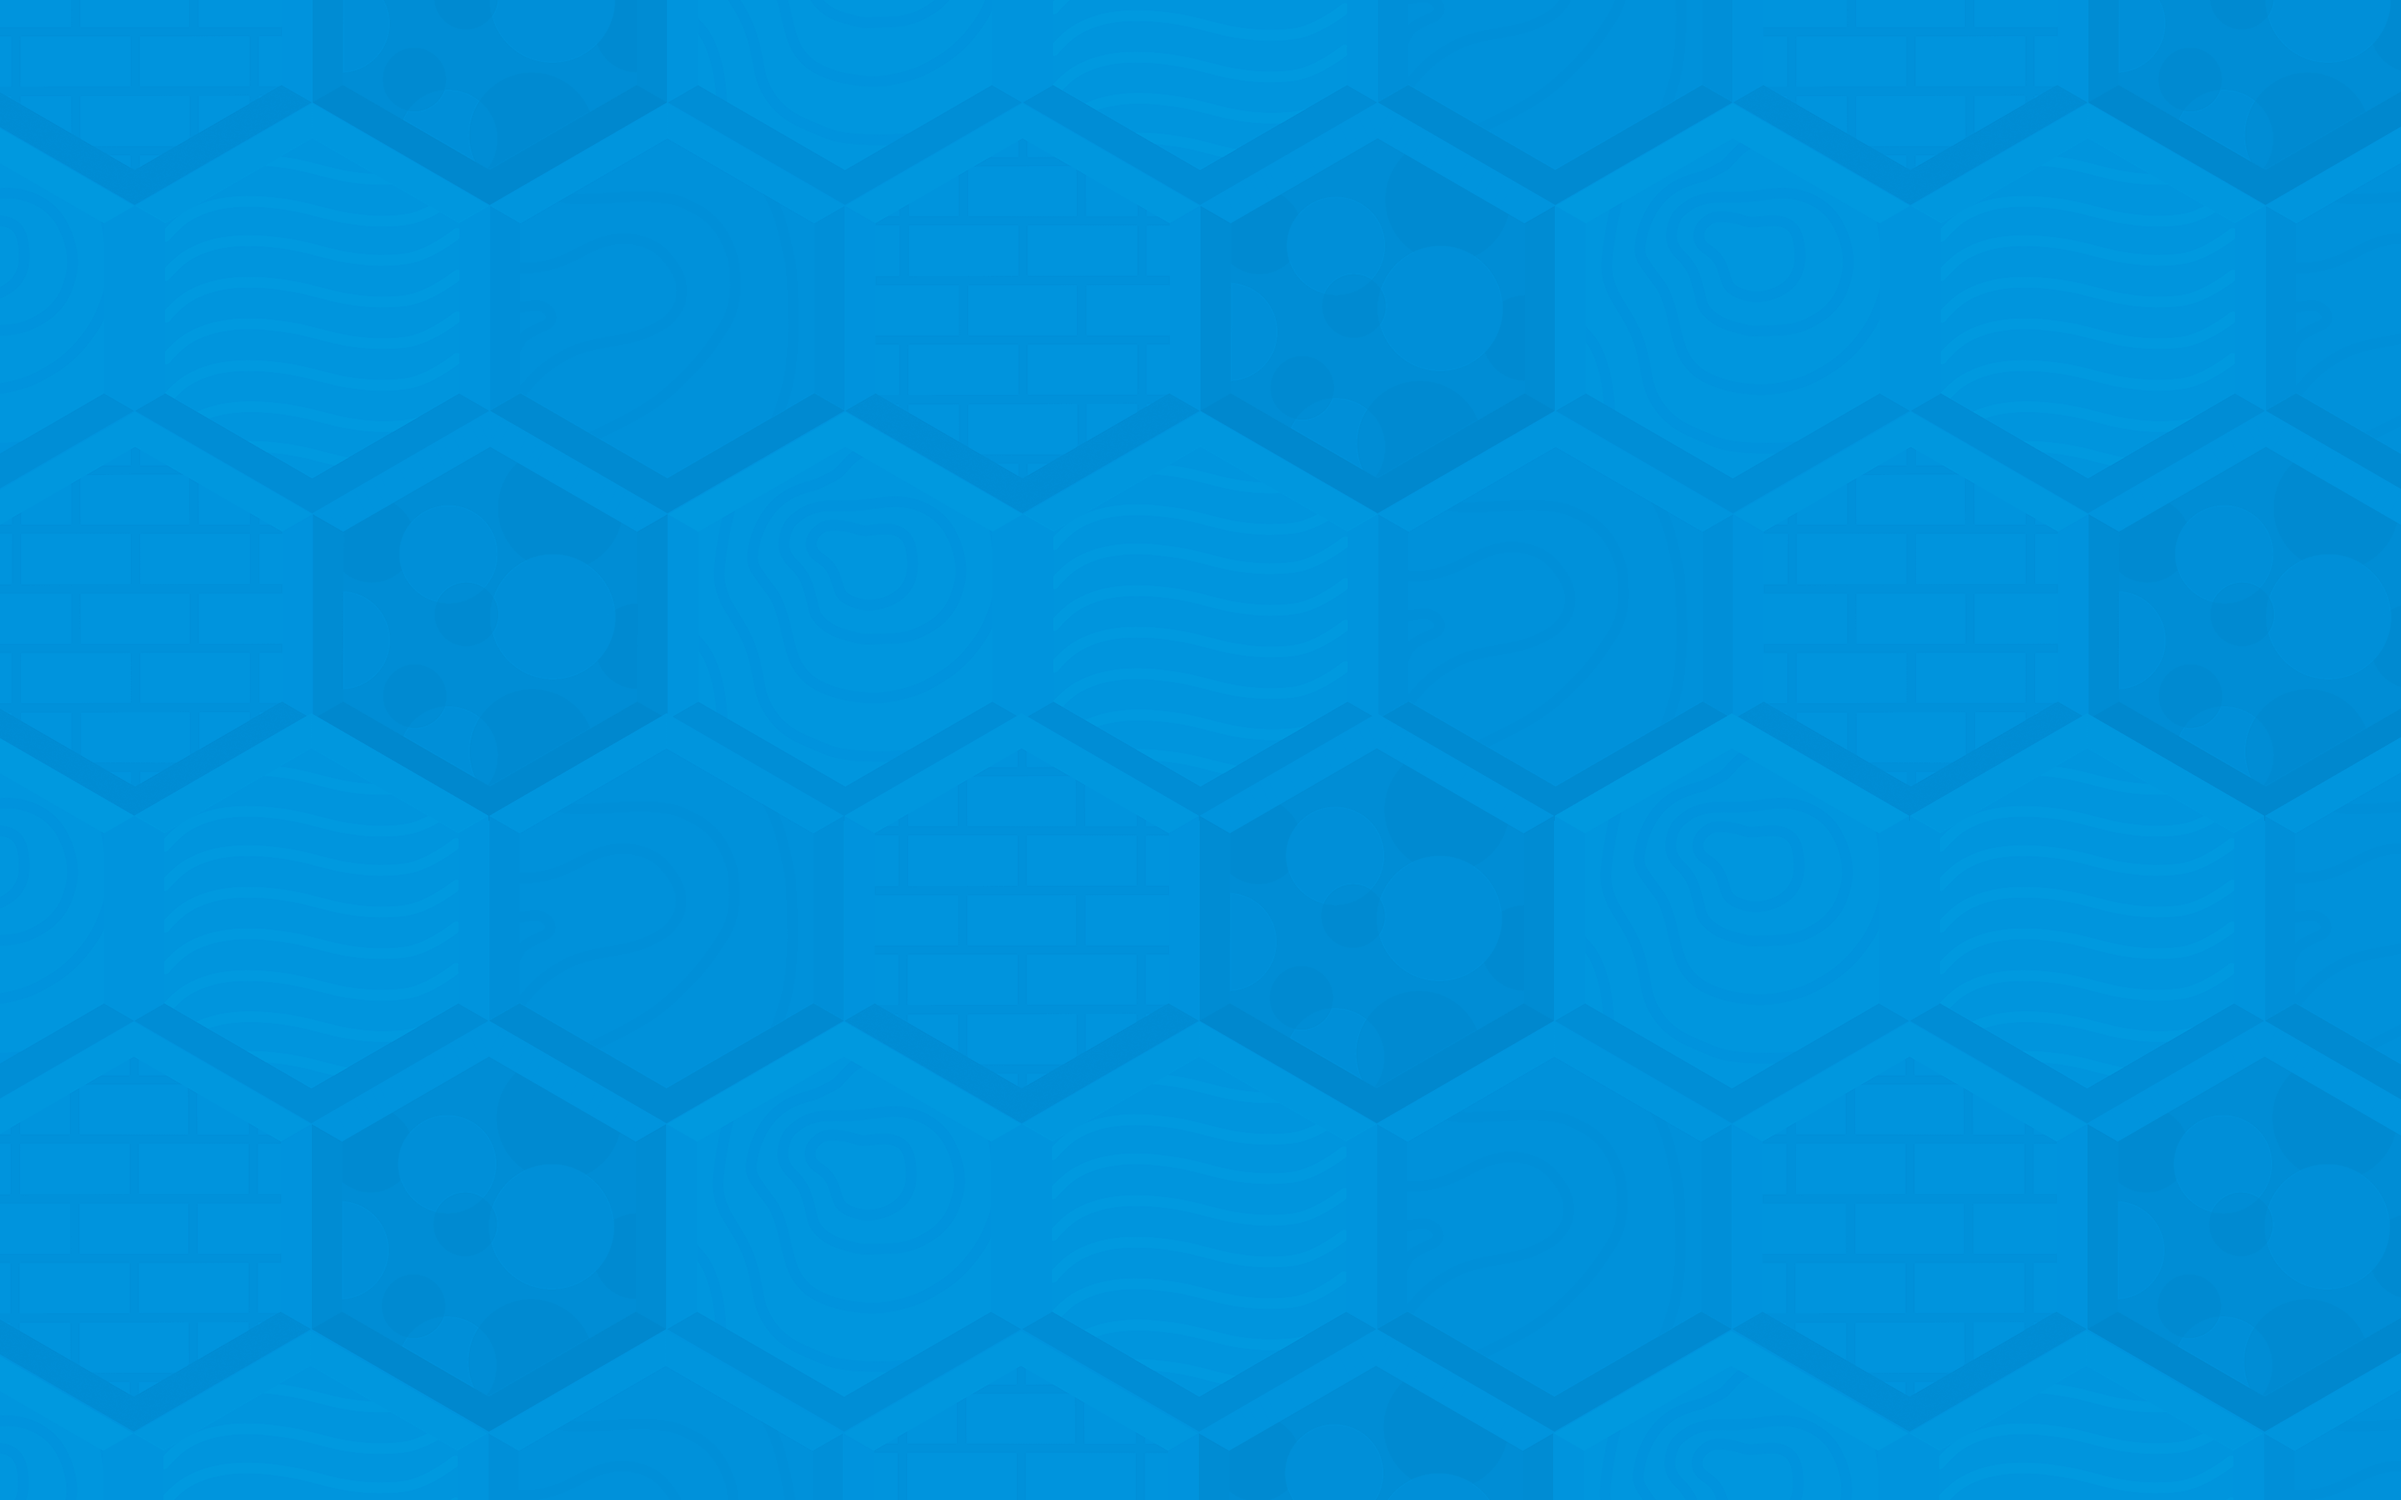
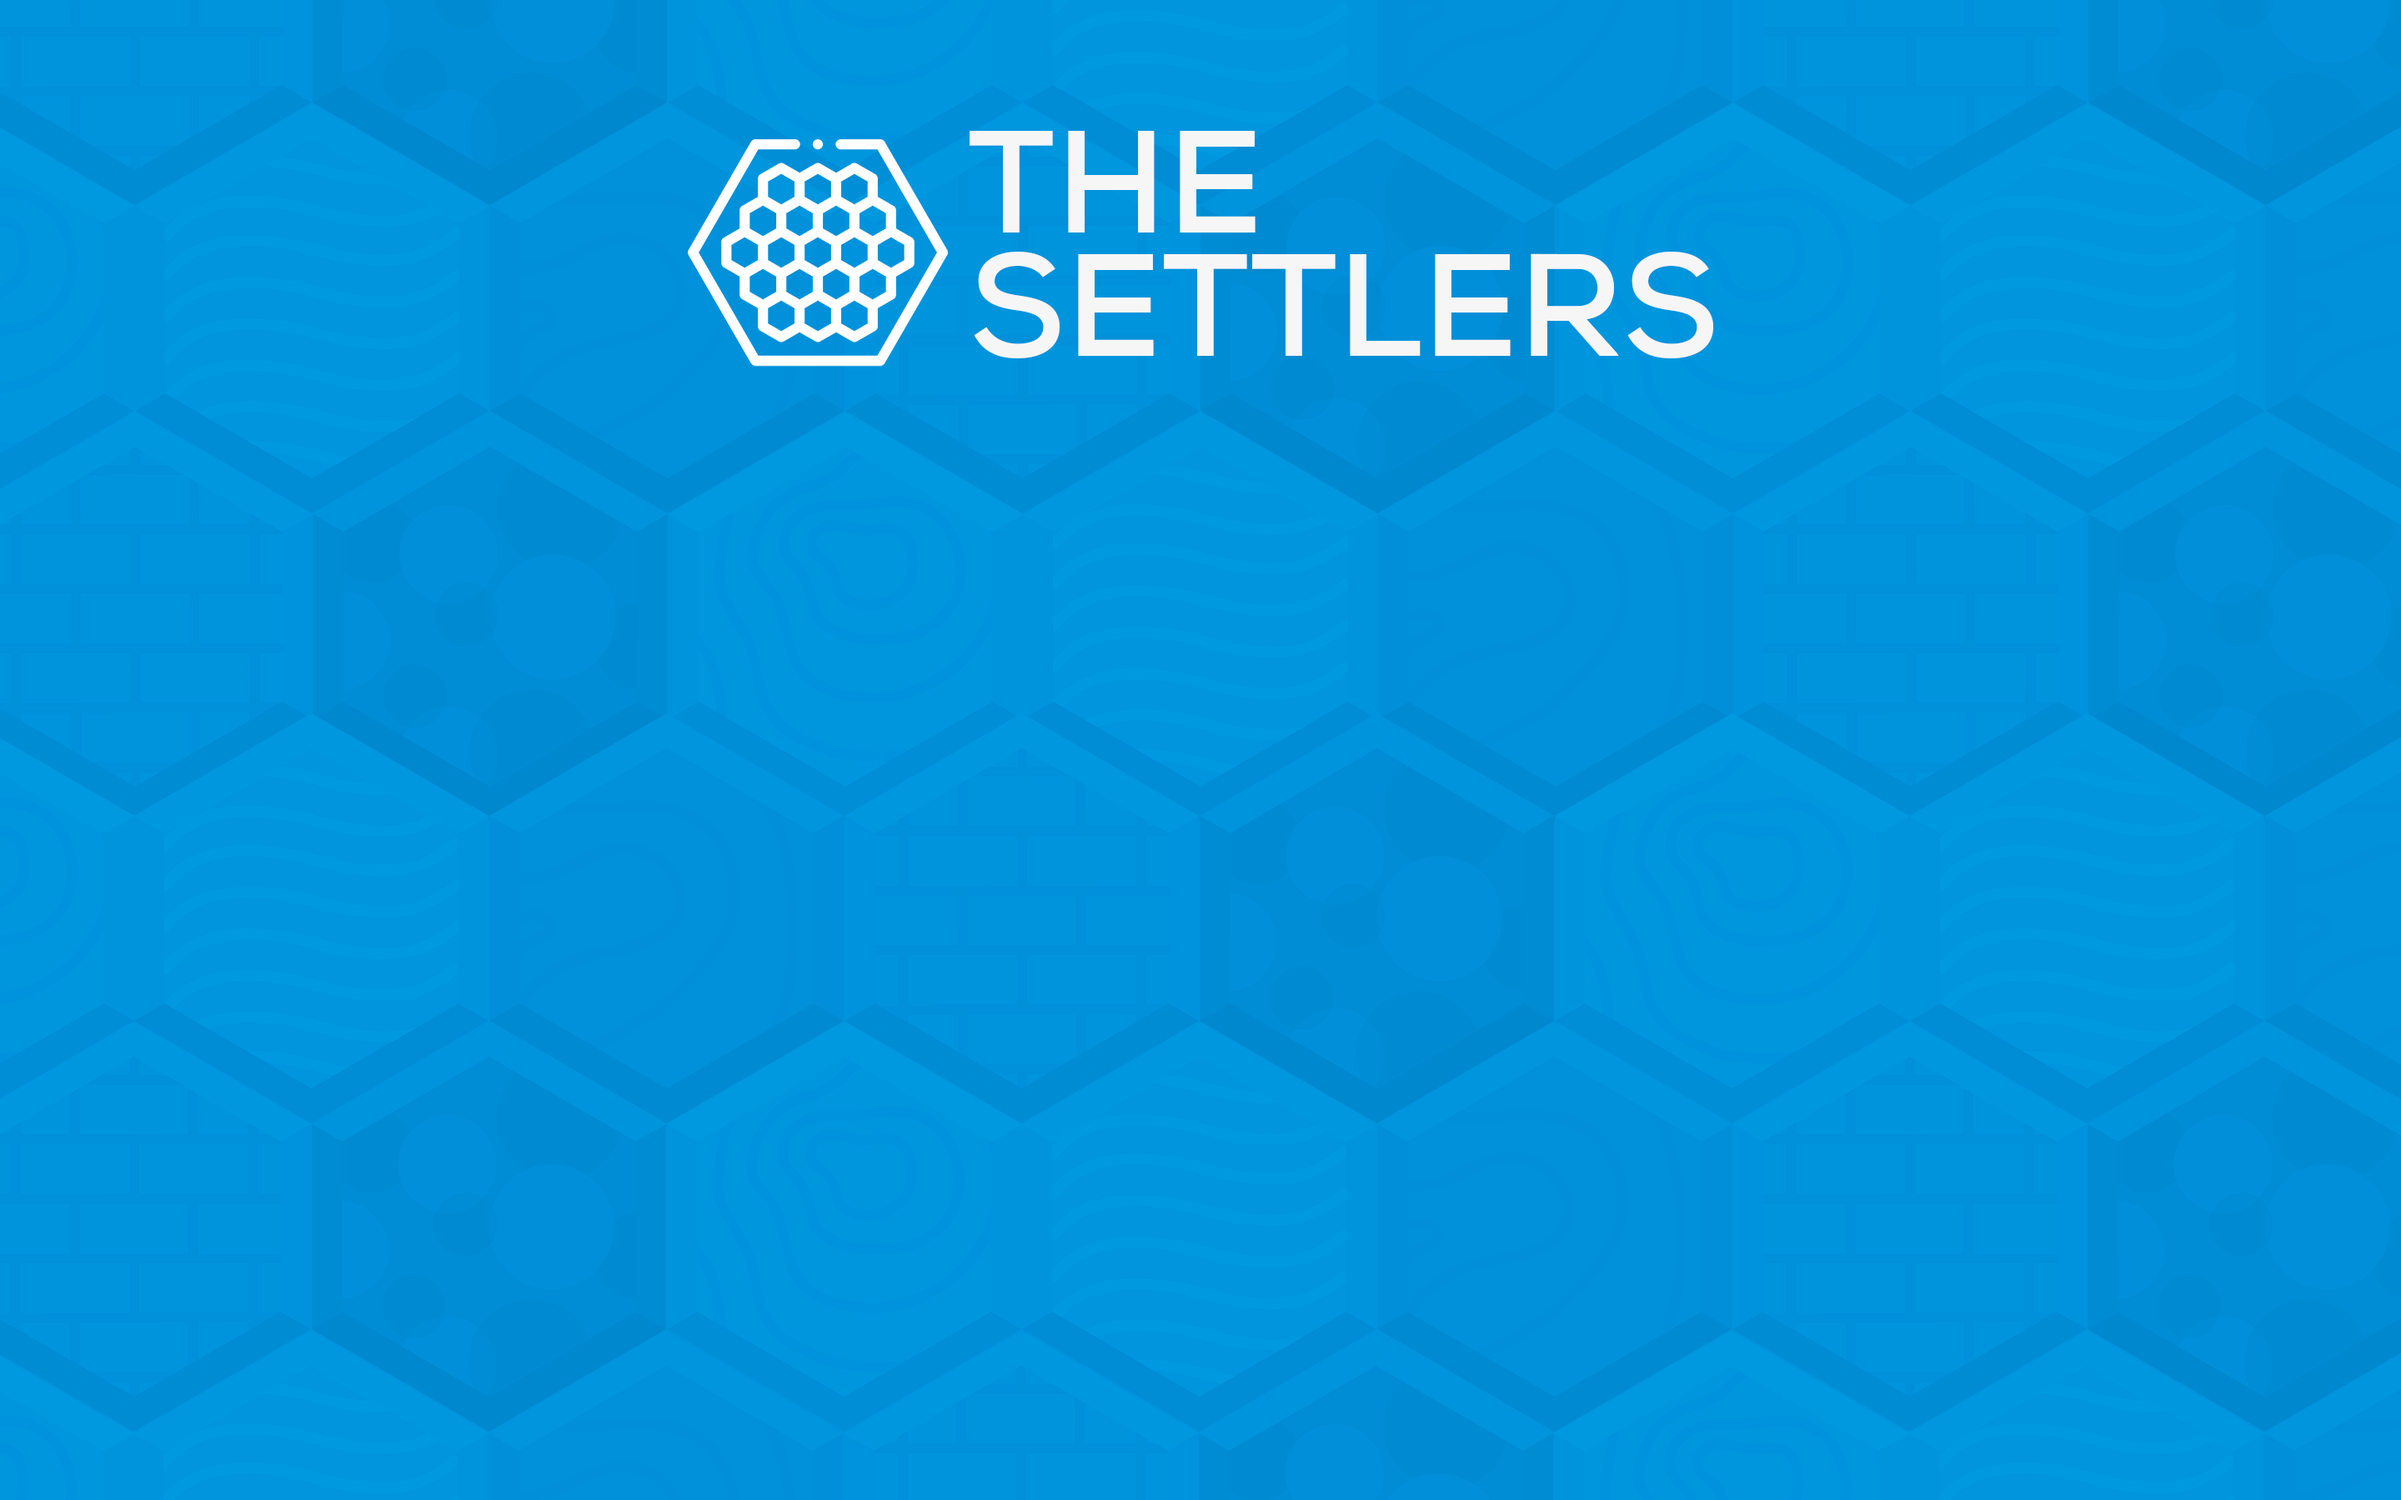
Added a menu
- Added a basic menu, with minimal functionality
- Working exit button with confirmation pop-up in menu

Changed region(s): [[0.2812, 0.0622, 0.7188, 0.2489]]

diff --git a/The Settlers/src/main/resources/com/example/thesettlers/sample.css b/The Settlers/src/main/resources/com/example/thesettlers/sample.css
@@ -1,4 +1,11 @@
 #GUI{
+    -fx-background-image: url("gamebg.png");
+    -fx-background-repeat: no-repeat;
+    -fx-background-size: 1440 900;
+    -fx-background-position: 0 0;
+}
+
+#MENU{
     -fx-background-image: url("menubg.png");
     -fx-background-repeat: no-repeat;
     -fx-background-size: 1440 900;

diff --git a/The Settlers/target/classes/com/example/thesettlers/sample.css b/The Settlers/target/classes/com/example/thesettlers/sample.css
@@ -1,4 +1,11 @@
 #GUI{
+    -fx-background-image: url("gamebg.png");
+    -fx-background-repeat: no-repeat;
+    -fx-background-size: 1440 900;
+    -fx-background-position: 0 0;
+}
+
+#MENU{
     -fx-background-image: url("menubg.png");
     -fx-background-repeat: no-repeat;
     -fx-background-size: 1440 900;

diff --git a/The Settlers/src/main/java/com/example/thesettlers/Menu.java b/The Settlers/src/main/java/com/example/thesettlers/Menu.java
@@ -1,0 +1,62 @@
+package com.example.thesettlers;
+
+import javafx.application.Platform;
+import javafx.scene.Scene;
+import javafx.scene.image.Image;
+import javafx.scene.layout.Pane;
+import javafx.scene.paint.ImagePattern;
+import javafx.scene.shape.Rectangle;
+
+public class Menu {
+    private Pane menu = new Pane();
+    private Scene scene = new Scene(menu);
+    public Menu(){
+        menu.setId("MENU");
+        Rectangle startGame = new Rectangle(362.5, 280,715,100);
+        startGame.setFill(new ImagePattern(new Image(this.getClass().getResource("startgame.png").toExternalForm())));
+
+        Rectangle howToPlay = new Rectangle(362.5, 280+100+40,715,100);
+        howToPlay.setFill(new ImagePattern(new Image(this.getClass().getResource("howtoplay.png").toExternalForm())));
+
+        Rectangle options = new Rectangle(362.5, 280+200+80,715,100);
+        options.setFill(new ImagePattern(new Image(this.getClass().getResource("options.png").toExternalForm())));
+
+        Rectangle exit = new Rectangle(362.5, 280+300+120,715,100);
+
+        Rectangle exitform = new Rectangle(0,0,1440,900);
+        exitform.setFill(new ImagePattern(new Image(this.getClass().getResource("exitform.png").toExternalForm())));
+        exitform.setVisible(false);
+
+        Rectangle yes = new Rectangle(521.5,485,153.5,50.5);
+        yes.setFill(new ImagePattern(new Image(this.getClass().getResource("yes.png").toExternalForm())));
+        yes.setVisible(false);
+
+        Rectangle no = new Rectangle(755.5,485,153.5,50.5);
+        no.setFill(new ImagePattern(new Image(this.getClass().getResource("no.png").toExternalForm())));
+        no.setVisible(false);
+        
+        exit.setFill(new ImagePattern(new Image(this.getClass().getResource("exit.png").toExternalForm())));
+        exit.setOnMouseClicked(e -> {
+            exitform.toFront();
+            yes.toFront();
+            no.toFront();
+            exitform.setVisible(true);
+            yes.setVisible(true);
+            no.setVisible(true);
+            yes.setOnMouseClicked(i -> {
+                Platform.exit();
+            });
+            no.setOnMouseClicked(i -> {
+                exitform.setVisible(false);
+                yes.setVisible(false);
+                no.setVisible(false);
+            });
+        });
+        menu.getChildren().addAll(startGame,howToPlay,options,exit,exitform,yes,no);
+
+    }
+
+    public Scene getMenu() {
+        return scene;
+    }
+}

diff --git a/The Settlers/src/main/java/com/example/thesettlers/GUI.java b/The Settlers/src/main/java/com/example/thesettlers/GUI.java
@@ -164,6 +164,7 @@ public class GUI {
         buyRoad = new Rectangle(532.5 , 790, 60, 39.5);
         buyRoad.setFill(new ImagePattern(new Image(this.getClass().getResource(playerColours[game.getCurrentPlayer().getPlayerID()-1]+"buyroad.png").toExternalForm())));
         buyRoad.setOnMouseClicked(e -> {
+            settlementPane.setVisible(false);
             //TODO check if player has sufficient resources *** should this be done in deciding weather its clickable?
             roadPane.setVisible(true);
             //TODO allow player to place road
@@ -173,6 +174,7 @@ public class GUI {
         buySettlement = new Rectangle(602.5, 790, 60, 39.5);
         buySettlement.setFill(new ImagePattern(new Image(this.getClass().getResource(playerColours[game.getCurrentPlayer().getPlayerID()-1]+"buysettlement.png").toExternalForm())));
         buySettlement.setOnMouseClicked(e -> {
+            roadPane.setVisible(false);
             //for (Settlement settlement:game.getGameBoard().getSettlementList()) {
             //TODO check if player has sufficient resources *** should this be done in deciding weather its clickable?
             //TODO check if player has correct roads for a settlement to be placed *** already done
@@ -184,6 +186,7 @@ public class GUI {
         buyCity = new Rectangle(672.5, 790, 60, 39.5);
         buyCity.setFill(new ImagePattern(new Image(this.getClass().getResource(playerColours[game.getCurrentPlayer().getPlayerID()-1]+"buycity.png").toExternalForm())));
         buyCity.setOnMouseClicked(e -> {
+            roadPane.setVisible(false);
             //TODO check if player has sufficient resources *** should this be done in deciding weather its clickable?
             //TODO allow player to turn settlement into city
             settlementPane.setVisible(true);
@@ -207,6 +210,8 @@ public class GUI {
         Rectangle endTurn = new Rectangle(602.5, 839.5, 130, 39.5);
         endTurn.setFill(new ImagePattern(new Image(this.getClass().getResource("endturn.png").toExternalForm())));
         endTurn.setOnMouseClicked(e -> {
+            settlementPane.setVisible(false);
+            roadPane.setVisible(false);
             game.nextPlayer();
             endTurnMenu.setFill(new ImagePattern(new Image(this.getClass().getResource("p"+(game.getCurrentPlayer().getPlayerID())+"endturn.png").toExternalForm())));
             endTurnMenu.setVisible(true);

diff --git a/The Settlers/src/main/java/com/example/thesettlers/MenuFX.java b/The Settlers/src/main/java/com/example/thesettlers/MenuFX.java
@@ -4,16 +4,14 @@ import javafx.application.Application;
 import javafx.scene.Scene;
 import javafx.stage.Stage;
 import javafx.scene.paint.Color;
-public class GameFX extends Application {
+public class MenuFX extends Application {
 
     @Override
     public void start(Stage primaryStage) throws Exception {
         primaryStage.setTitle("The Settlers");
         primaryStage.setFullScreen(true);
-        Game game = new Game(2, 10); //TODO get number of players from setup screen
-        GUI gui = new GUI(game);
-        game.setGUI(gui);
-        Scene content = gui.getGUI();
+        Menu gui = new Menu();
+        Scene content = gui.getMenu();
         content.setFill(Color.web("3e91c4"));
         content.getStylesheets().add(String.valueOf(this.getClass().getResource("sample.css")));
         primaryStage.setScene(content);
